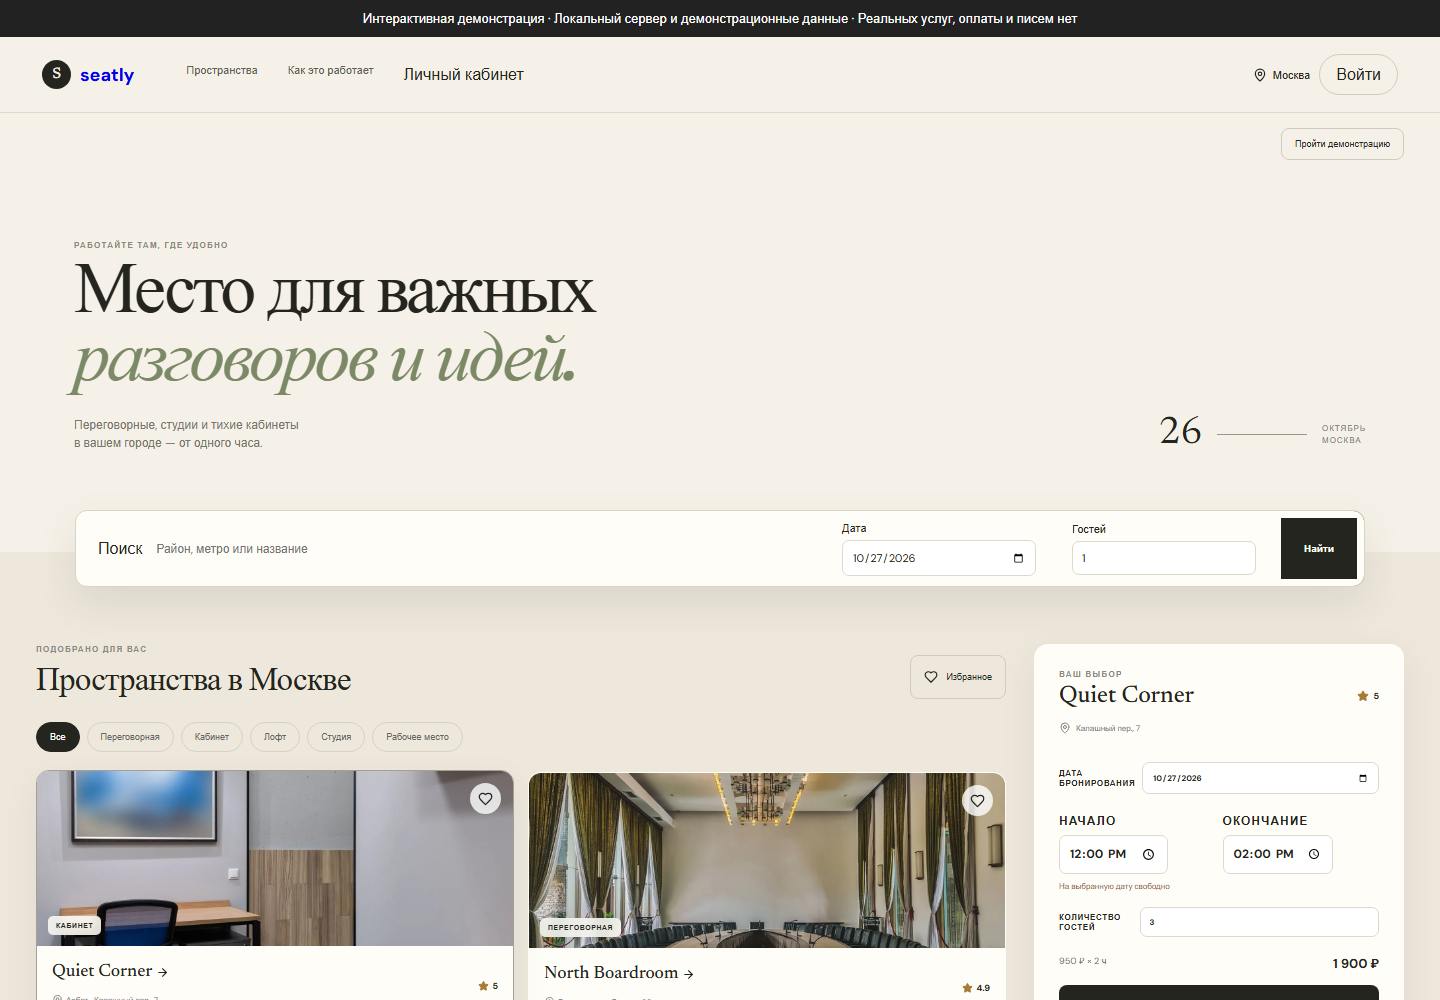
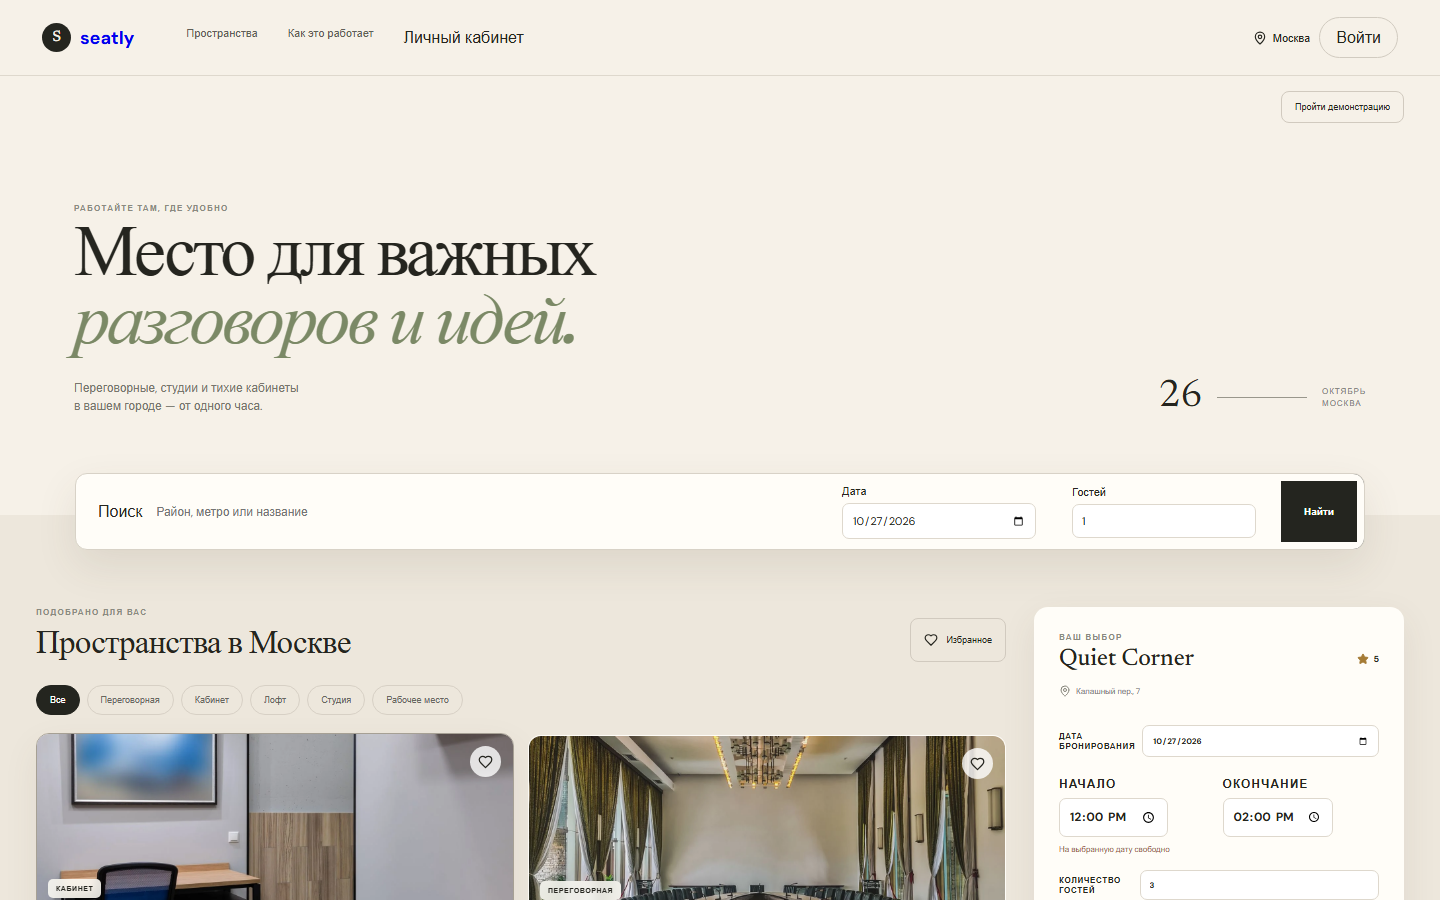
Polish project presentation, mobile layout and browser access

diff --git a/src/main.tsx b/src/main.tsx
@@ -2,28 +2,9 @@ import { StrictMode } from 'react';
 import { createRoot } from 'react-dom/client';
 import App from './App';
 import './styles.css';
+
 createRoot(document.getElementById('root')!).render(
   <StrictMode>
-    <>
-      {' '}
-      {!import.meta.env.VITE_HOSTED_MODE && (
-        <div
-          style={{
-            padding: '10px 20px',
-            background: '#222',
-            color: '#fff',
-            fontSize: 13,
-            textAlign: 'center',
-          }}
-        >
-          Интерактивная демонстрация ·{' '}
-          {import.meta.env.VITE_DEMO_MODE === 'true'
-            ? 'Данные сохраняются только в этом браузере'
-            : 'Локальный сервер и демонстрационные данные'}{' '}
-          · Реальных услуг, оплаты и писем нет
-        </div>
-      )}
-      <App />
-    </>
+    <App />
   </StrictMode>,
 );

diff --git a/src/App.tsx b/src/App.tsx
@@ -589,11 +589,6 @@ export default function App() {
   };
   return (
     <div className="site-shell">
-      {mode === 'hosted' && (
-        <div className="hosted-note">
-          Интерактивная демонстрация · после входа доступны роли гостя и владельца.
-        </div>
-      )}
       <header className="site-header">
         <a className="logo" href="#">
           <span>S</span>seatly

diff --git a/README.md b/README.md
@@ -1,14 +1,13 @@
-# Seatly — бронирование рабочих пространств
+# Seatly - бронирование рабочих пространств
 
 Поиск помещений и бронирование временных интервалов: заявка гостя, подтверждение владельцем, перенос и отмена.
 
-[Демо в браузере](https://memorim.github.io/seatly-workspace-booking/) · [Серверное демо](https://memorim-flowboard-live.amusedcorgi34.chatgpt.site/seatly/index.html)
+[Открыть проект](https://memorim.github.io/seatly-workspace-booking/) · [Серверная версия](https://memorim-flowboard-live.amusedcorgi34.chatgpt.site/seatly/)
+
 
 ![Компьютерная версия](docs/desktop.png)
 
 <img src="docs/mobile.png" width="320" alt="Мобильная версия">
-
-[Короткая демонстрация](docs/demo.gif)
 
 ## Возможности
 
